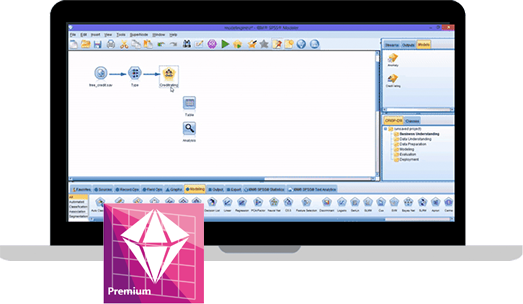
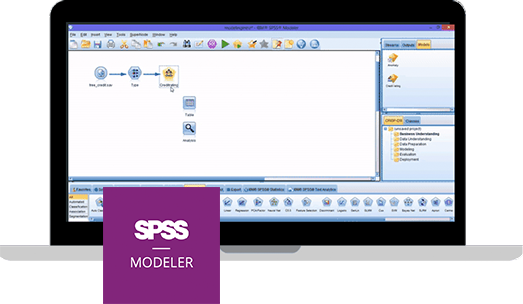
Removing CGG Footer + Adding New SPSS Boxshots

diff --git a/index.php b/index.php
@@ -104,10 +104,6 @@
            <?php  
                 include 'footer/footer.php';
            ?> 
-			  
-		   <?php
-			  	include 'cgg-footer.php';
-		   ?>
 
       </div>
   </div>
